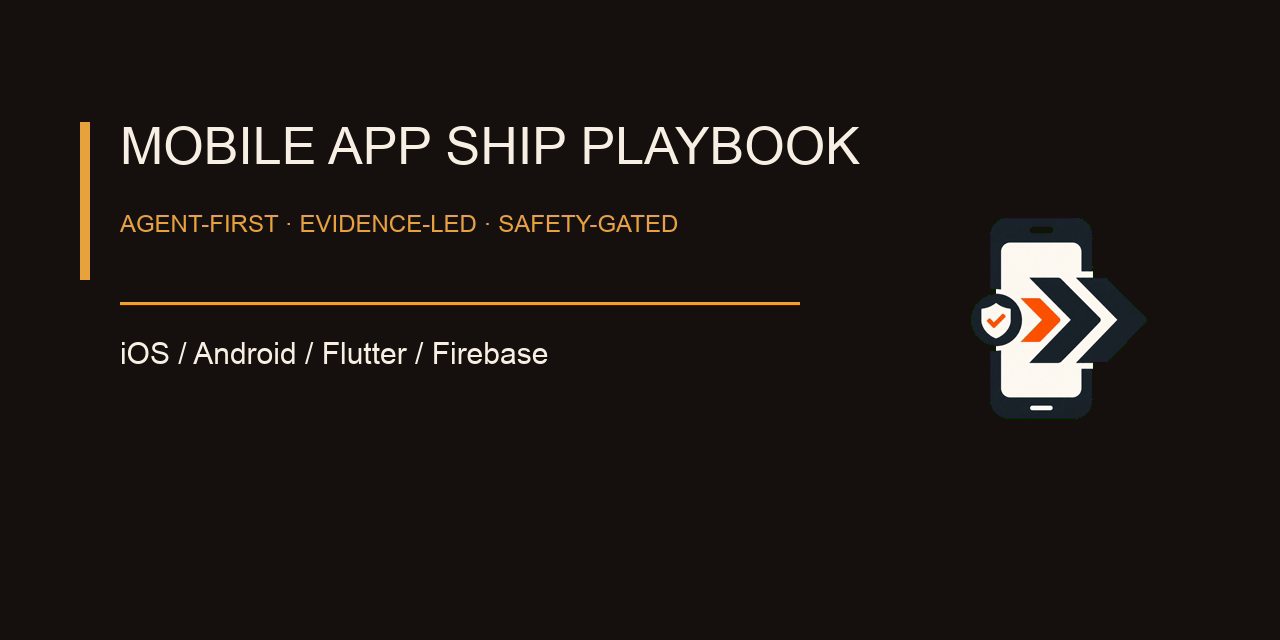
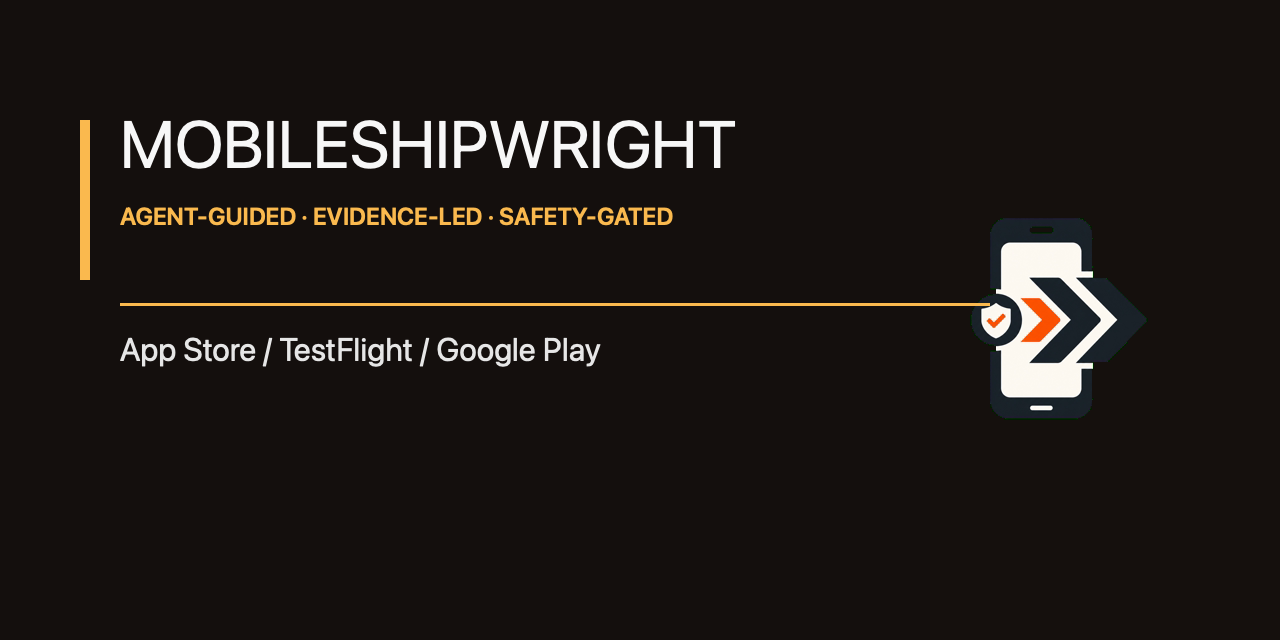
docs: establish MobileShipwright discovery metadata (#3)

diff --git a/CODE_OF_CONDUCT.md b/CODE_OF_CONDUCT.md
@@ -1,0 +1,85 @@
+
+# Contributor Covenant Code of Conduct
+
+## Our Pledge
+
+We as members, contributors, and leaders pledge to make participation in our community a harassment-free experience for everyone, regardless of age, body size, visible or invisible disability, ethnicity, sex characteristics, gender identity and expression, level of experience, education, socio-economic status, nationality, personal appearance, race, caste, color, religion, or sexual identity and orientation.
+
+We pledge to act and interact in ways that contribute to an open, welcoming, diverse, inclusive, and healthy community.
+
+## Our Standards
+
+Examples of behavior that contributes to a positive environment for our community include:
+
+* Demonstrating empathy and kindness toward other people
+* Being respectful of differing opinions, viewpoints, and experiences
+* Giving and gracefully accepting constructive feedback
+* Accepting responsibility and apologizing to those affected by our mistakes, and learning from the experience
+* Focusing on what is best not just for us as individuals, but for the overall community
+
+Examples of unacceptable behavior include:
+
+* The use of sexualized language or imagery, and sexual attention or advances of any kind
+* Trolling, insulting or derogatory comments, and personal or political attacks
+* Public or private harassment
+* Publishing others' private information, such as a physical or email address, without their explicit permission
+* Other conduct which could reasonably be considered inappropriate in a professional setting
+
+## Enforcement Responsibilities
+
+Community leaders are responsible for clarifying and enforcing our standards of acceptable behavior and will take appropriate and fair corrective action in response to any behavior that they deem inappropriate, threatening, offensive, or harmful.
+
+Community leaders have the right and responsibility to remove, edit, or reject comments, commits, code, wiki edits, issues, and other contributions that are not aligned to this Code of Conduct, and will communicate reasons for moderation decisions when appropriate.
+
+## Scope
+
+This Code of Conduct applies within all community spaces, and also applies when an individual is officially representing the community in public spaces. Examples of representing our community include using an official e-mail address, posting via an official social media account, or acting as an appointed representative at an online or offline event.
+
+## Enforcement
+
+Instances of abusive, harassing, or otherwise unacceptable behavior may be reported to the community leaders responsible for enforcement at the maintainer through the GitHub profile at https://github.com/Srcanesen. Do not publish sensitive personal information in an issue or discussion; request private follow-up instead. All complaints will be reviewed and investigated promptly and fairly.
+
+All community leaders are obligated to respect the privacy and security of the reporter of any incident.
+
+## Enforcement Guidelines
+
+Community leaders will follow these Community Impact Guidelines in determining the consequences for any action they deem in violation of this Code of Conduct:
+
+### 1. Correction
+
+**Community Impact**: Use of inappropriate language or other behavior deemed unprofessional or unwelcome in the community.
+
+**Consequence**: A private, written warning from community leaders, providing clarity around the nature of the violation and an explanation of why the behavior was inappropriate. A public apology may be requested.
+
+### 2. Warning
+
+**Community Impact**: A violation through a single incident or series of actions.
+
+**Consequence**: A warning with consequences for continued behavior. No interaction with the people involved, including unsolicited interaction with those enforcing the Code of Conduct, for a specified period of time. This includes avoiding interactions in community spaces as well as external channels like social media. Violating these terms may lead to a temporary or permanent ban.
+
+### 3. Temporary Ban
+
+**Community Impact**: A serious violation of community standards, including sustained inappropriate behavior.
+
+**Consequence**: A temporary ban from any sort of interaction or public communication with the community for a specified period of time. No public or private interaction with the people involved, including unsolicited interaction with those enforcing the Code of Conduct, is allowed during this period. Violating these terms may lead to a permanent ban.
+
+### 4. Permanent Ban
+
+**Community Impact**: Demonstrating a pattern of violation of community standards, including sustained inappropriate behavior, harassment of an individual, or aggression toward or disparagement of classes of individuals.
+
+**Consequence**: A permanent ban from any sort of public interaction within the community.
+
+## Attribution
+
+This Code of Conduct is adapted from the [Contributor Covenant][homepage], version 2.1, available at [https://www.contributor-covenant.org/version/2/1/code_of_conduct.html][v2.1].
+
+Community Impact Guidelines were inspired by [Mozilla's code of conduct enforcement ladder][Mozilla CoC].
+
+For answers to common questions about this code of conduct, see the FAQ at [https://www.contributor-covenant.org/faq][FAQ]. Translations are available at [https://www.contributor-covenant.org/translations][translations].
+
+[homepage]: https://www.contributor-covenant.org
+[v2.1]: https://www.contributor-covenant.org/version/2/1/code_of_conduct.html
+[Mozilla CoC]: https://github.com/mozilla/diversity
+[FAQ]: https://www.contributor-covenant.org/faq
+[translations]: https://www.contributor-covenant.org/translations
+

diff --git a/README.tr.md b/README.tr.md
@@ -1,15 +1,15 @@
 <p align="center">
-  <img src=".github/assets/logo.png" alt="Mobile App Ship Playbook" width="110">
+  <img src=".github/assets/logo.png" alt="MobileShipwright" width="110">
 </p>
 
 <p align="center"><b><a href="README.md">English</a> | <a href="README.tr.md">Türkçe</a></b></p>
 
-<h1 align="center">Mobile App Ship Playbook</h1>
+<h1 align="center">MobileShipwright</h1>
 
-<p align="center">Flutter/Firebase mobil uygulamalarını App Store ve Google Play'e güvenli, denetlenebilir ve kanıta dayalı biçimde taşımak için agent odaklı bir yayınlama oyun kitabı.</p>
+<p align="center">Flutter ve Firebase uygulamalarını App Store Connect, TestFlight ve Google Play'e güvenli, kanıta dayalı onay kapılarıyla taşıyan agent odaklı mobil yayınlama rehberi.</p>
 
 <p align="center">
-  <a href="https://github.com/Srcanesen/mobile-app-ship-playbook/actions/workflows/validate.yml"><img src="https://github.com/Srcanesen/mobile-app-ship-playbook/actions/workflows/validate.yml/badge.svg" alt="Validate"></a>
+  <a href="https://github.com/Srcanesen/MobileShipwright/actions/workflows/validate.yml"><img src="https://github.com/Srcanesen/MobileShipwright/actions/workflows/validate.yml/badge.svg" alt="Validate"></a>
   <a href="LICENSE"><img src="https://img.shields.io/badge/license-MIT-blue.svg" alt="MIT lisansı"></a>
   <a href="VERSION"><img src="https://img.shields.io/badge/version-0.1.0-blue.svg" alt="Sürüm 0.1.0"></a>
   <img src="https://img.shields.io/badge/platform-macOS-lightgrey.svg" alt="macOS arm64 üzerinde test edildi">
@@ -33,7 +33,7 @@
 Oyun kitabı, test edilmiş bir Agent Skill olarak yayımlanır. Skills CLI ile kurun:
 
 ```bash
-npx skills add Srcanesen/mobile-app-ship-playbook --skill mobile-app-ship
+npx skills add Srcanesen/MobileShipwright --skill mobile-app-ship
 ```
 
 Agent'a hedef yolu ve istenen kapsamı söyleyin. Agent şu sırayla okumalıdır:
@@ -43,7 +43,7 @@ Agent'a hedef yolu ve istenen kapsamı söyleyin. Agent şu sırayla okumalıdı
 3. [harness-onboarding.md](skills/mobile-app-ship/references/harness-onboarding.md)
 4. Yalnızca skill'in yönlendirdiği ilgili faz veya sağlayıcı referansları
 
-`https://github.com/Srcanesen/mobile-app-ship-playbook.git` adresinden klonlayıp tercih ettiğiniz harness içinde açtıktan sonra aşağıdaki hazır prompt'ları kullanın.
+`https://github.com/Srcanesen/MobileShipwright.git` adresinden klonlayıp tercih ettiğiniz harness içinde açtıktan sonra aşağıdaki hazır prompt'ları kullanın.
 
 **Mevcut uygulama**
 

diff --git a/README.md b/README.md
@@ -1,15 +1,15 @@
 <p align="center">
-  <img src=".github/assets/logo.png" alt="Mobile App Ship Playbook" width="110">
+  <img src=".github/assets/logo.png" alt="MobileShipwright" width="110">
 </p>
 
 <p align="center"><b><a href="README.md">English</a> | <a href="README.tr.md">Türkçe</a></b></p>
 
-<h1 align="center">Mobile App Ship Playbook</h1>
+<h1 align="center">MobileShipwright</h1>
 
-<p align="center">An agent-first, evidence-led playbook for taking Flutter/Firebase mobile apps through independent App Store and Google Play delivery paths.</p>
+<p align="center">An agent-guided mobile release playbook for Flutter and Firebase apps—covering App Store Connect, TestFlight, Google Play, RevenueCat, and safety-gated delivery.</p>
 
 <p align="center">
-  <a href="https://github.com/Srcanesen/mobile-app-ship-playbook/actions/workflows/validate.yml"><img src="https://github.com/Srcanesen/mobile-app-ship-playbook/actions/workflows/validate.yml/badge.svg" alt="Validate"></a>
+  <a href="https://github.com/Srcanesen/MobileShipwright/actions/workflows/validate.yml"><img src="https://github.com/Srcanesen/MobileShipwright/actions/workflows/validate.yml/badge.svg" alt="Validate"></a>
   <a href="LICENSE"><img src="https://img.shields.io/badge/license-MIT-blue.svg" alt="MIT license"></a>
   <a href="VERSION"><img src="https://img.shields.io/badge/version-0.1.0-blue.svg" alt="Version 0.1.0"></a>
   <img src="https://img.shields.io/badge/platform-macOS-lightgrey.svg" alt="Tested on macOS arm64">
@@ -33,7 +33,7 @@
 The playbook is published as a tested Agent Skill. Install it with the skills CLI:
 
 ```bash
-npx skills add Srcanesen/mobile-app-ship-playbook --skill mobile-app-ship
+npx skills add Srcanesen/MobileShipwright --skill mobile-app-ship
 ```
 
 Tell the agent the target path and desired scope. It must read in this order:
@@ -43,7 +43,7 @@ Tell the agent the target path and desired scope. It must read in this order:
 3. [harness-onboarding.md](skills/mobile-app-ship/references/harness-onboarding.md)
 4. Only the phase or provider references routed by the skill
 
-Use these copy-ready prompts after cloning `https://github.com/Srcanesen/mobile-app-ship-playbook.git` and opening it in your chosen harness.
+Use these copy-ready prompts after cloning `https://github.com/Srcanesen/MobileShipwright.git` and opening it in your chosen harness.
 
 **Existing app**
 
